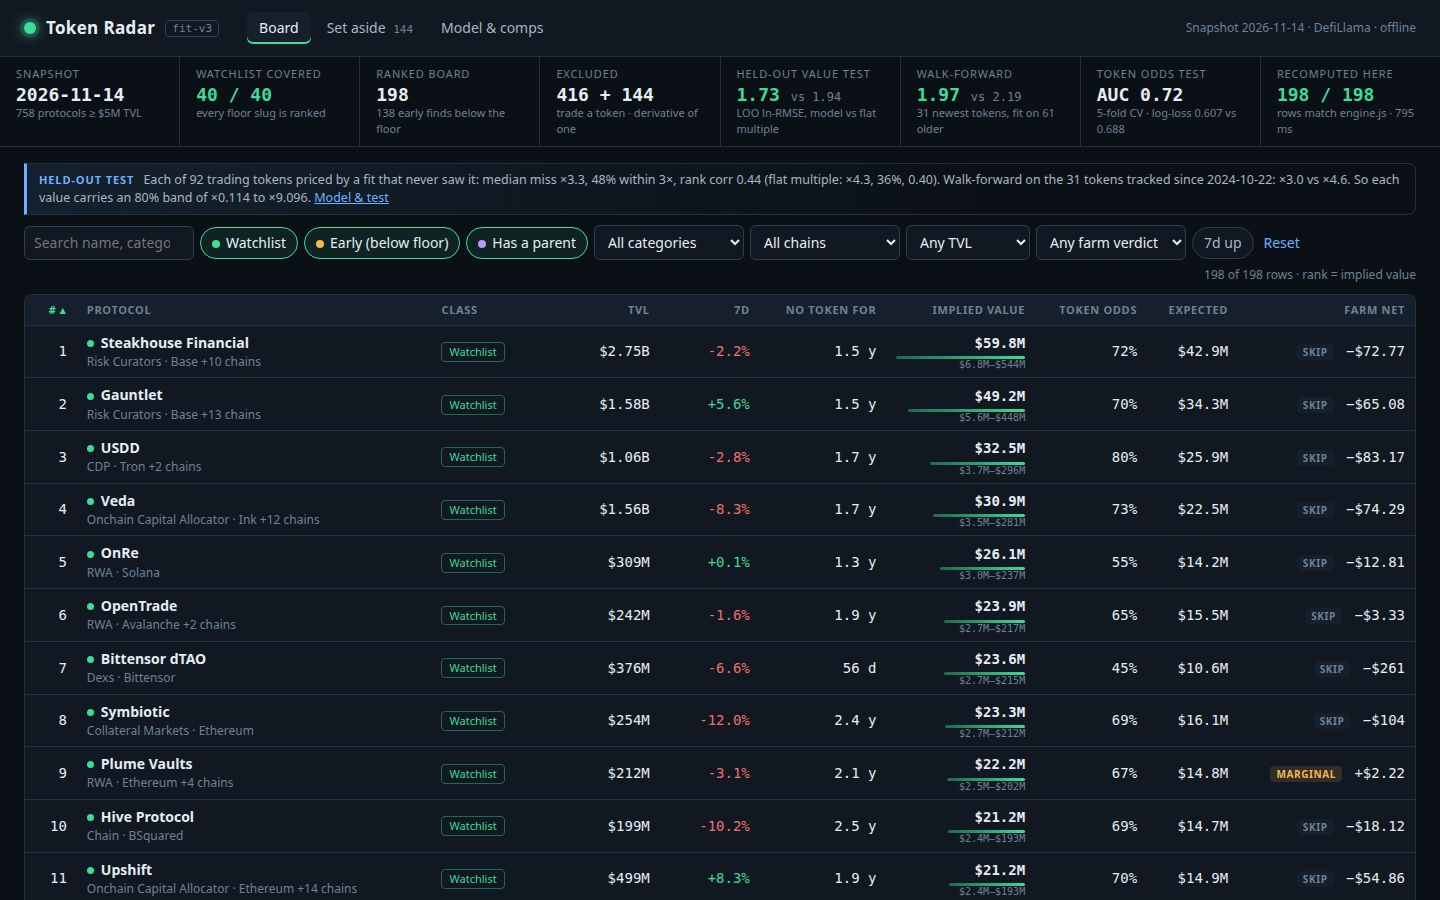
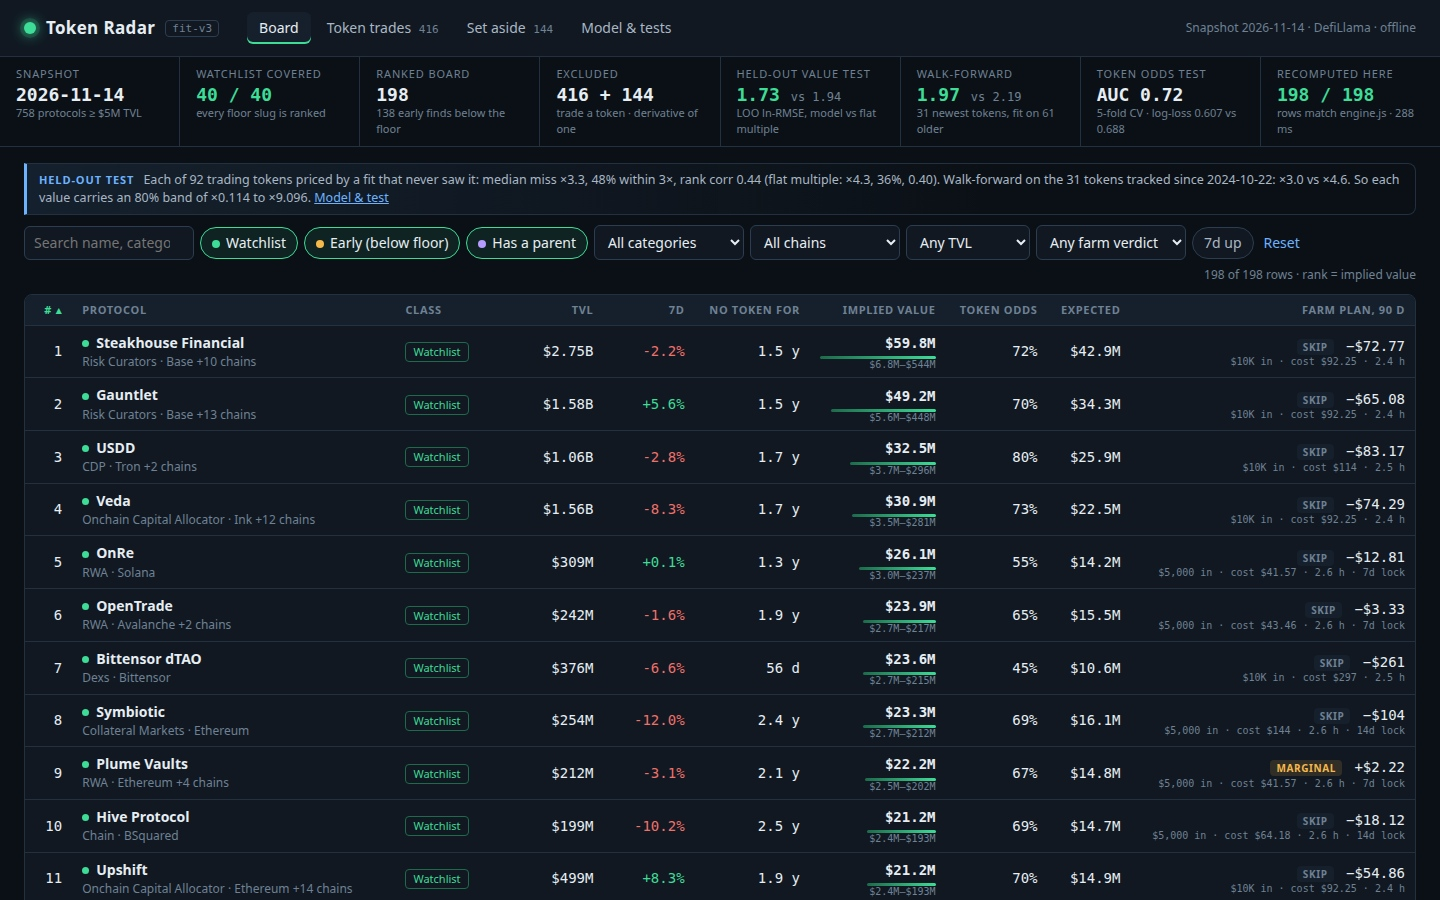
Board: costed farm plan on every row; Token trades tab; detail shot shows growth and runway at work

diff --git a/dashboard/app.js b/dashboard/app.js
@@ -13,7 +13,7 @@
   R.rows.forEach(function (r) { bySlug[r.slug] = r; });
   var MAXV = R.rows[0].implied_value_usd, check = null;
 
-  // ---- formatting ---------------------------------------------------------------------------------
+  // ---- formatting
   function esc(s) { return String(s == null ? '' : s).replace(/[&<>"']/g, function (c) { return '&#' + c.charCodeAt(0) + ';'; }); }
   function money(x) {
     if (x == null) return '–';
@@ -29,11 +29,11 @@
   function signed(x) { return (x >= 0 ? '+' : '') + money(x); }
   function fact(k, v) { return '<div class="fact"><div class="k">' + k + '</div><div class="v">' + v + '</div></div>'; }
 
-  // ---- state in the hash --------------------------------------------------------------------------
+  // ---- state in the hash
   var st;
   function readHash() {
     var h = location.hash.replace(/^#\/?/, '').split('?'), p = new URLSearchParams(h[1] || '');
-    st = { tab: ['board', 'aside', 'model'].indexOf(h[0]) >= 0 ? h[0] : 'board', q: p.get('q') || '',
+    st = { tab: ['board', 'live', 'aside', 'model'].indexOf(h[0]) >= 0 ? h[0] : 'board', q: p.get('q') || '',
       cls: p.get('cls') ? p.get('cls').split(',').filter(function (c) { return CLS.indexOf(c) >= 0; }) : CLS.slice(),
       cat: p.get('cat') || '', chain: p.get('chain') || '', min: +p.get('min') || 0, grow: p.get('grow') === '1', v: p.get('v') || '',
       sort: p.get('sort') || 'rank', sel: p.get('sel') || '' };
@@ -49,11 +49,12 @@
     history.replaceState(null, '', '#/' + st.tab + (p.toString() ? '?' + p : ''));
   }
 
-  // ---- integrity strip: what was read, what is covered, what was left out, how the model tests ------
+  // ---- integrity strip: what was read, what is covered, what was left out, how the model tests
   function header() {
     document.getElementById('ver').textContent = R.model;
     document.getElementById('asof').textContent = 'Snapshot ' + R.as_of + ' · DefiLlama · offline';
     document.getElementById('n-aside').textContent = C.set_aside;
+    document.getElementById('n-live').textContent = C.live;
     var lo = T.loo, wf = T.walk_forward;
     var k = [
       ['Snapshot', R.as_of, C.protocols + ' protocols ≥ $5M TVL'],
@@ -76,9 +77,9 @@
       '). Walk-forward on the ' + wf.test + ' tokens tracked since ' + wf.cut_listed + ': ×' + wf.model.median_x.toFixed(1) + ' vs ×' + wf.flat.median_x.toFixed(1) + '. So each value carries an 80% band of ' + x3(R.fit.band[0]) + ' to ' + x3(R.fit.band[1]) + '. <a href="#/model">Model &amp; test</a></div>';
   }
 
-  // ---- board --------------------------------------------------------------------------------------
+  // ---- board
   var COLS = [['rank', '#', 'r'], ['name', 'Protocol'], ['class', 'Class', 'x2'], ['tvl_usd', 'TVL', 'r x2'], ['change_7d', '7d', 'r'], ['tokenless_days', 'No token for', 'r'],
-    ['implied_value_usd', 'Implied value', 'r'], ['token_odds', 'Token odds', 'r'], ['expected_value_usd', 'Expected', 'r x2'], ['net', 'Farm net', 'r']];
+    ['implied_value_usd', 'Implied value', 'r'], ['token_odds', 'Token odds', 'r'], ['expected_value_usd', 'Expected', 'r x2'], ['net', 'Farm plan, 90 d', 'r']];
   function sortVal(r, k) {
     if (k === 'net') return r.plan.net;
     if (k === 'name' || k === 'class') return String(r[k]).toLowerCase();
@@ -120,7 +121,7 @@
         '<td class="x2">' + badge(r.class) + '</td><td class="r num x2">' + money(r.tvl_usd) + '</td><td class="r num">' + pct(r.change_7d) + '</td><td class="r num">' + days(r.tokenless_days) + '</td>' +
         '<td class="r bar num"><b>' + money(r.implied_value_usd) + '</b><span style="width:' + Math.max(2, Math.sqrt(r.implied_value_usd / MAXV) * 100).toFixed(1) + '%"></span><em>' + money(r.value_band_usd[0]) + '–' + money(r.value_band_usd[1]) + '</em></td>' +
         '<td class="r num">' + odds(r.token_odds) + '</td><td class="r num x2">' + money(r.expected_value_usd) + '</td>' +
-        '<td class="r num">' + vchip(r) + ' ' + signed(r.plan.net) + '</td></tr>';
+        '<td class="r num fp">' + vchip(r) + ' ' + signed(r.plan.net) + '<em>' + money(r.plan.ticket) + ' in · cost ' + money(r.plan.costs.total) + ' · ' + r.plan.hours.toFixed(1) + ' h' + (r.plan.lockup_days ? ' · ' + r.plan.lockup_days + 'd lock' : '') + '</em></td></tr>';
     }).join('');
     app.innerHTML = testLine() + f + '<div class="split' + (sel ? ' has-sel' : ' solo') + '"><div class="tbl"><div class="scroll"><table><thead>' + head + '</thead><tbody>' +
       (body || '<tr><td colspan="10" class="empty">No protocol matches these filters.</td></tr>') + '</tbody></table></div></div>' + (sel ? detail(sel) : '') + '</div>';
@@ -178,15 +179,25 @@
     if (c) c.onclick = function () { st.sel = ''; go(); };
   }
 
-  // ---- set aside ----------------------------------------------------------------------------------
+  // ---- set aside
   function aside() {
-    app.innerHTML = '<div class="prose"><p>These ' + C.set_aside + ' protocols record no token on DefiLlama but fail the watchlist\'s own rule: a CEX\'s reserve wallets, a staking or bridged wrapper, or a versioned product. Their value already trades as another token, so they stay off the ranked board; the reference value applies a class factor of ' + R.constants.DERIVATIVE + '. The ' + C.live + ' protocols that record a token are not candidates either: ' + C.comps + ' of their tokens price the model, ' + C.comps_dropped + ' are left out (no market cap, or a CEX, bridge or wrapper).</p></div>' +
+    app.innerHTML = '<div class="prose"><p>These ' + C.set_aside + ' protocols record no token on DefiLlama but fail the watchlist\'s own rule: a CEX\'s reserve wallets, a staking or bridged wrapper, or a versioned product. Their value already trades as another token, so they stay off the ranked board; the reference value applies a class factor of ' + R.constants.DERIVATIVE + '. Protocols that record a token are listed under <a href="#/live">Token trades</a>.</p></div>' +
       '<div class="tbl"><div class="scroll"><table><thead><tr><th>Protocol</th><th>Category</th><th>Why set aside</th><th class="r">TVL</th><th class="r">7d</th><th class="r">Reference value</th></tr></thead><tbody>' +
       R.set_aside.map(function (r) { return '<tr><td class="nm">' + esc(r.name) + '</td><td class="sub">' + esc(r.category || '–') + '</td><td>' + esc(r.reason) + '</td><td class="r num">' + money(r.tvl_usd) + '</td><td class="r num">' + pct(r.change_7d) + '</td><td class="r num sub">' + money(r.implied_value_usd) + '</td></tr>'; }).join('') +
       '</tbody></table></div></div>';
   }
 
-  // ---- model and its tests ------------------------------------------------------------------------
+  // ---- already trading: off the board, and the source of the comps
+  function live() {
+    var comp = {}, L = window.SNAPSHOT.protocols.filter(function (p) { return p.gecko_id !== null || p.symbol !== null; }).sort(function (a, b) { return b.tvl_usd - a.tvl_usd; });
+    R.comps.forEach(function (c) { comp[c.slug] = 1; });
+    app.innerHTML = '<div class="prose"><p>These ' + L.length + ' protocols record a token on DefiLlama, so they are not on the board: the launch is past. ' + C.comps + ' tokens, one per token, price the value model (marked); ' + C.comps_dropped + ' are left out (no market cap, or a CEX, bridge or wrapper).</p></div>' +
+      '<div class="tbl"><div class="scroll"><table><thead><tr><th>Protocol</th><th>Token</th><th>Category</th><th class="r">TVL</th><th class="r">Mcap</th><th>Comp</th></tr></thead><tbody>' +
+      L.map(function (p) { return '<tr><td class="nm">' + esc(p.name) + '</td><td class="num">' + esc(p.symbol || p.gecko_id) + '</td><td class="sub">' + esc(p.category || '–') + '</td><td class="r num">' + money(p.tvl_usd) + '</td><td class="r num">' + money(p.mcap_usd) + '</td><td>' + (comp[p.slug] ? '✓' : '') + '</td></tr>'; }).join('') +
+      '</tbody></table></div></div>';
+  }
+
+  // ---- model and its tests
   function scatter() { // leave-one-out prediction against the actual market cap, both on log scales
     var pts = T.points, lo = Infinity, hi = -Infinity, W = 460, P = 34;
     pts.forEach(function (p) { lo = Math.min(lo, p[1], p[2]); hi = Math.max(hi, p[1], p[2]); });
@@ -218,16 +229,14 @@
       '<p class="note">Reading it: a fitted size curve beats one flat multiple by a clear margin both ways. Family and category effects add rank skill in leave-one-out (' + T.loo.model.spearman.toFixed(2) + ' vs ' + T.loo.size_only.spearman.toFixed(2) + ') but not on the newest tokens, so they are kept heavily shrunk. The momentum and runway priors cost little held out. Misses are wide (one token in two is off by more than 3×), which is why every value shows its 80% band.</p>' +
       '<h3>Token odds, ' + O.folds + '-fold cross-validated</h3><table class="mini"><tbody><tr><td>AUC (0.5 is a coin)</td><td class="r num">' + O.auc.toFixed(3) + '</td></tr><tr><td>Log-loss, model vs base rate ' + odds(O.base_rate) + '</td><td class="r num">' + O.log_loss.toFixed(3) + ' vs ' + O.base_log_loss.toFixed(3) + '</td></tr></tbody></table>' +
       '<h3>Penalty grid (LOO ln-RMSE, family λ × category λ)</h3><div class="grid4">' + T.grid.map(function (g) { return '<span' + (g.lf === T.chosen.family_lambda && g.lc === T.chosen.category_lambda ? ' class="on"' : '') + '>' + g.lf + '/' + g.lc + ' <b>' + g.rmse.toFixed(3) + '</b></span>'; }).join('') + '</div></div>' +
-      '<div><h3>Predicted with the token held out vs actual (dashed: 3×)</h3>' + scatter() + '<h3>Trading comps</h3><div class="tbl"><div class="scroll" style="max-height:300px"><table><thead><tr><th>Token</th><th>Category</th><th class="r">TVL</th><th class="r">Mcap</th><th class="r">×TVL</th></tr></thead><tbody>' +
-      R.comps.map(function (c) { return '<tr><td><span class="nm">' + esc(c.name) + '</span> <span class="sub">' + esc(c.symbol || '') + (c.members > 1 ? ' · ' + c.members + ' products' : '') + '</span></td><td class="sub">' + esc(c.category) + '</td><td class="r num">' + money(c.tvl_usd) + '</td><td class="r num">' + money(c.mcap_usd) + '</td><td class="r num">' + c.ratio.toFixed(3) + '</td></tr>'; }).join('') +
-      '</tbody></table></div></div></div></div>';
+      '<div><h3>Predicted with the token held out vs actual (dashed: 3×)</h3>' + scatter() + '<p class="note">The tokens that price the fit are marked under <a href="#/live">Token trades</a>.</p></div></div>';
   }
 
-  // ---- router and the in-browser recompute ----------------------------------------------------------
+  // ---- router and the in-browser recompute
   function go() { writeHash(); render(); }
   function render() {
     document.querySelectorAll('[data-tab]').forEach(function (a) { a.setAttribute('aria-selected', String(a.getAttribute('data-tab') === st.tab)); });
-    if (st.tab === 'aside') aside(); else if (st.tab === 'model') model(); else board();
+    if (st.tab === 'aside') aside(); else if (st.tab === 'live') live(); else if (st.tab === 'model') model(); else board();
   }
   window.addEventListener('hashchange', function () { readHash(); render(); });
   readHash();

diff --git a/dashboard/engine.js b/dashboard/engine.js
@@ -63,7 +63,7 @@
   function quantile(xs, q) { var s = xs.slice().sort(function (a, b) { return a - b; }); return s.length ? s[Math.min(s.length - 1, Math.floor(q * s.length))] : 0; }
   function median(xs) { return quantile(xs, 0.5); }
 
-  // ---- linear algebra: a d x d inverse by Gauss-Jordan with partial pivoting ------------------------
+  // ---- linear algebra: a d x d inverse by Gauss-Jordan with partial pivoting
   function inverse(A) {
     var d = A.length, M = A.map(function (r, i) { return r.concat(r.map(function (_, j) { return i === j ? 1 : 0; })); });
     for (var c = 0; c < d; c++) {
@@ -87,7 +87,7 @@
     return { w: w, h: h };
   }
 
-  // ---- comps: one per trading token ---------------------------------------------------------------
+  // ---- comps: one per trading token
   /** DefiLlama gives every product of a token the token's whole market cap, so products sharing a
    *  CoinGecko id (or symbol) are merged and their TVL summed. A token whose largest product fails the
    *  watchlist rule (a CEX, a bridge, a staking wrapper) prices an exchange or a base asset: dropped. */
@@ -111,7 +111,7 @@
     return { comps: comps.sort(function (a, b) { return b.mcap - a.mcap || cmp(a.slug, b.slug); }), dropped: dropped };
   }
 
-  // ---- the fitted core: ln mcap = a + b (ln TVL - centre) + family + category ----------------------
+  // ---- the fitted core: ln mcap = a + b (ln TVL - centre) + family + category
   function lnTarget(c) { return Math.log(c.tvl * clamp(c.ratio, K.RATIO_MIN, K.RATIO_MAX)); }
   function fitCore(train, lf, lc) {
     var cats = [], centre = train.reduce(function (a, c) { return a + Math.log(c.tvl); }, 0) / train.length;
@@ -160,8 +160,8 @@
     var wf = fitCore(train, best.lf, best.lc), wfFlat = flat(train);
     var wfSize = fitCore(train.map(function (c) { return Object.assign({}, c, { category: 'Uncategorised' }); }), 1e6, 1e6);
     var tAct = test.map(lnTarget);
-    // The momentum and runway priors are not fitted (a comp's age is not tokenless age); this checks
-    // that applying them to the comps does not worsen the out-of-sample error much.
+    // Momentum and runway are stated priors: fitted as slopes on the comps (7d change, days tracked),
+    // leave-one-out shrank both to ~0. This checks that applying the priors costs little held out.
     var withPriors = core.loo.map(function (x, i) { var c = comps[i], a = ageDays(s.as_of, c.listed_at); return x + Math.log(momentum(c.change_7d)) + Math.log(runway(a === null ? 0 : a)); });
     var resid = core.loo.map(function (x, i) { return act[i] - x; });
     var ages = s.protocols.filter(function (p) { return !hasToken(p); }).map(function (p) { return ageDays(s.as_of, p.listed_at); }).filter(function (a) { return a !== null; });
@@ -184,7 +184,7 @@
   function momentum(g) { return 1 + clamp(g === null || g === undefined ? 0 : g, K.GROWTH_FLOOR, K.GROWTH_CAP) / 100; }
   function runway(age) { return K.RUNWAY_FLOOR + K.RUNWAY_RANGE * (1 - Math.exp(-age / K.RUNWAY_TAU)); }
 
-  // ---- token odds: a logistic fit of "carries a token" on the protocol's profile --------------------
+  // ---- token odds: a logistic fit of "carries a token" on the protocol's profile
   function oddsModel(s, unknownAge) {
     var pop = s.protocols.filter(function (p) { return !ruleFailure(p) && p.tvl_usd > 0; });
     var centre = pop.reduce(function (a, p) { return a + Math.log(p.tvl_usd); }, 0) / pop.length;
@@ -219,7 +219,7 @@
         log_loss: r4(cv.reduce(function (a, c) { return a + ll(c[0], c[1]); }, 0) / cv.length), base_log_loss: r4(cv.reduce(function (a, c) { return a + ll(base, c[1]); }, 0) / cv.length) } };
   }
 
-  // ---- valuation -----------------------------------------------------------------------------------
+  // ---- valuation
   function classify(p, s, watch) {
     if (watch[p.slug]) return 'watch';
     if (ruleFailure(p)) return 'derivative';
@@ -235,7 +235,7 @@
       band: [Math.round(implied * cal.band[0]), Math.round(implied * cal.band[1])] };
   }
 
-  // ---- farm plans: steps with capital, gas and bridge, lockup, risk and break-even -------------------
+  // ---- farm plans: steps with capital, gas and bridge, lockup, risk and break-even
   var GAS = { Ethereum: 4, Bitcoin: 3, Tron: 1.5, Algorand: 0.01, Solana: 0.01, Sui: 0.02, Aptos: 0.01, Base: 0.05, Arbitrum: 0.08, Optimism: 0.05, Binance: 0.08,
     Polygon: 0.02, Avalanche: 0.1, Monad: 0.03, Sonic: 0.02, Hyperliquid: 0.02, 'Hyperliquid L1': 0.02, Ink: 0.03, Plasma: 0.01, Berachain: 0.05, Stellar: 0.01,
     Ripple: 0.01, Flare: 0.02, Katana: 0.03, Unichain: 0.03, Linea: 0.06, Scroll: 0.06, Mantle: 0.04, TON: 0.03, Starknet: 0.04, Near: 0.01, Cardano: 0.2, Noble: 0.02 };
@@ -282,7 +282,7 @@
       hours: r4((15 + a[4] + 10 + 20 + 5 * weeks + 15 + 2) / 60), steps: steps };
   }
 
-  // ---- the board ----------------------------------------------------------------------------------
+  // ---- the board
   function build(s) {
     var cal = calibrate(s), odds = oddsModel(s, cal.unknownAge), watch = {};
     s.watchlist.forEach(function (w) { watch[w] = true; });

diff --git a/dashboard/app.css b/dashboard/app.css
@@ -92,6 +92,8 @@ b.v-farm { color: var(--sig); } b.v-marginal { color: var(--amber); } b.v-skip {
 .test { background: linear-gradient(90deg, rgba(108, 178, 255, .10), transparent 70%); border: 1px solid var(--line); border-left: 3px solid var(--blue); border-radius: 0 var(--r) var(--r) 0; padding: 7px 12px; margin-bottom: 10px; font-size: 12.5px; color: var(--ink-2); }
 .test b { color: var(--blue); text-transform: uppercase; font-size: 11px; letter-spacing: .08em; margin-right: 6px; }
 .test a { color: var(--blue); }
+.has-sel .fp em { display: none; }
+.fp em { display: block; font: 10px var(--mono); color: var(--ink-3); font-style: normal; }
 
 .detail { background: var(--panel); border: 1px solid var(--line); border-radius: var(--r); padding: 16px 18px; position: sticky; top: 12px; max-height: calc(100vh - 150px); overflow: auto; }
 .detail h2 { margin: 0; font-size: 20px; }

diff --git a/dashboard/index.html b/dashboard/index.html
@@ -12,8 +12,9 @@
   <div class="brand"><span class="dot" aria-hidden="true"></span><h1>Token Radar</h1><span class="ver" id="ver"></span></div>
   <nav class="tabs" role="tablist">
     <a role="tab" href="#/board" data-tab="board">Board</a>
+    <a role="tab" href="#/live" data-tab="live">Token trades <b id="n-live"></b></a>
     <a role="tab" href="#/aside" data-tab="aside">Set aside <b id="n-aside"></b></a>
-    <a role="tab" href="#/model" data-tab="model">Model &amp; comps</a>
+    <a role="tab" href="#/model" data-tab="model">Model &amp; tests</a>
   </nav>
   <div class="asof" id="asof"></div>
 </header>

diff --git a/README.md b/README.md
@@ -16,7 +16,7 @@ A token launch radar. It ranks the DeFi protocols in a sealed DefiLlama snapshot
   - walk-forward (fit on the tokens DefiLlama tracked first, test on the newest third): 1.97, against 2.19 for a flat multiple. Size alone does better here, at 1.88.
 
   The leave-one-out residuals set each row's 80% value band.
-- **Momentum and runway** are stated priors: the 7-day TVL change, and the days run with no token.
+- **Momentum and runway** are stated priors: the 7-day TVL change, and the days run with no token. Fitted as slopes on the trading tokens instead, leave-one-out shrank both to about zero, so they stay stated, and the test shows the priors cost little held out.
 - **Class.** Watchlist and early rows count in full. Rows that have a parent are cut to 0.35. Wrapped, staked, bridged and CEX products are set aside off the board.
 - **Token odds.** A logistic fit of "carries a token" on size, age, chains and family. Its 5-fold cross-validated AUC is 0.72. Expected value is the odds times the implied value.
 
@@ -29,7 +29,7 @@ No protocol name appears in the code.
 
 It also checks break-even: the drop if a token launches, times the odds, against the costs. That gives a verdict of farm, marginal or skip.
 
-**Dashboard.** A sortable, filterable board covering 198 tokenless candidates and all 40 watchlist protocols. It has an integrity strip (snapshot, coverage, exclusions, test scores, in-browser recompute) and a detail view with the value build-up, the cost table and the steps. It also has a set-aside list and a model & test page with a held-out scatter. It runs with no network.
+**Dashboard.** A sortable, filterable board covering 198 tokenless candidates and all 40 watchlist protocols. Every row carries its farm plan in brief: verdict, net, ticket, cost, hours and lockup. It has an integrity strip (snapshot, coverage, exclusions, test scores, in-browser recompute) and a detail view with the value build-up, the cost table and the steps. Other tabs list the 416 protocols whose token already trades (the 92 that price the model marked), the set-aside derivatives, and the model and its tests with a held-out scatter. It runs with no network.
 
 ## Run it
 
